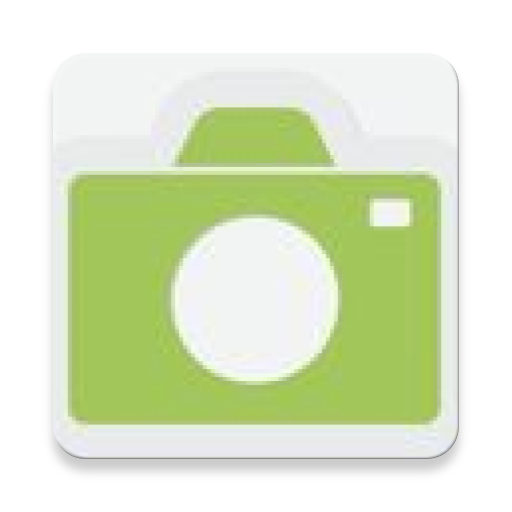
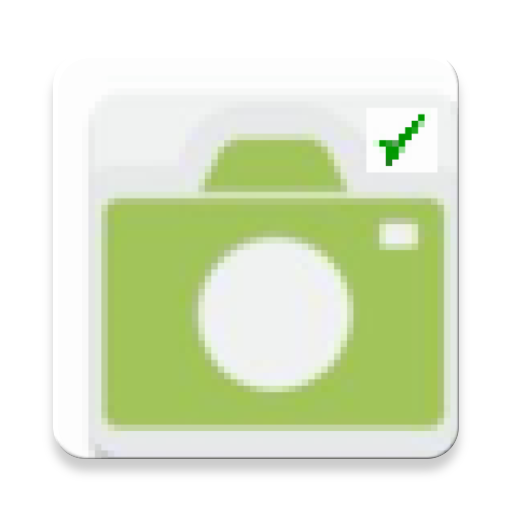
Aggiunto permesso per la fotocamera

Changed region(s): [[0.0938, 0.1875, 0.9062, 0.8438], [0.7812, 0.875, 0.8125, 0.9062], [0.1875, 0.875, 0.2188, 0.9062]]

diff --git a/app/src/main/java/com/example/mathfactory/Profilo_Utente.kt b/app/src/main/java/com/example/mathfactory/Profilo_Utente.kt
@@ -7,6 +7,7 @@ import android.content.Intent
 import android.content.pm.PackageManager
 import android.graphics.Bitmap
 import android.graphics.BitmapFactory
+import android.graphics.drawable.Drawable
 import android.media.MediaPlayer
 import android.net.Uri
 import android.support.v7.app.AppCompatActivity
@@ -30,19 +31,18 @@ import java.text.SimpleDateFormat
 import java.util.*
 
 class Profilo_Utente : AppCompatActivity(), NavigationView.OnNavigationItemSelectedListener {
-    val PERMISSION_REQUEST_CODE = 0
-    private var CurrentPhotoPath: String? = null
+    val PERMISSION_REQUEST_CODE= 101
+    val CAMERA_REQUEST_CODE=0
     private var mediaplayer: MediaPlayer? = null
     override fun onCreate(savedInstanceState: Bundle?) {
         super.onCreate(savedInstanceState)
         setContentView(R.layout.activity_profilo__utente)
         nav_view_PU.setNavigationItemSelectedListener(this)
-        button26.setOnClickListener {
-            val callCameraIntent = Intent(MediaStore.ACTION_IMAGE_CAPTURE)
-            if (callCameraIntent.resolveActivity(packageManager) != null) {
-                startActivityForResult(callCameraIntent, PERMISSION_REQUEST_CODE)
-            }
-        }
+        if(checkPermission())
+            button26.setBackgroundResource(R.mipmap.imm13)
+        else
+            button26.setBackgroundResource(R.mipmap.imm15)
+        button26.setOnClickListener{if(checkPermission()){ button26.setBackgroundResource(R.mipmap.imm13);go_to_camera()}else requestPermission()}
     }
 
     override fun onCreateOptionsMenu(menu: Menu): Boolean {
@@ -57,7 +57,7 @@ class Profilo_Utente : AppCompatActivity(), NavigationView.OnNavigationItemSelec
             return true
         }
         if (id == R.id.action_two) {
-            Toast.makeText(this, "Hi, I'm your own\ncalculator!", Toast.LENGTH_LONG).show()
+            Toast.makeText(this, "Hi, here is your profile!", Toast.LENGTH_LONG).show()
             return true
         }
         if (id == R.id.action_three) {
@@ -146,13 +146,40 @@ class Profilo_Utente : AppCompatActivity(), NavigationView.OnNavigationItemSelec
         super.onActivityResult(requestCode, resultCode, data)
        when(requestCode)
        {
-           PERMISSION_REQUEST_CODE->{
+           CAMERA_REQUEST_CODE->{
                if(resultCode==Activity.RESULT_OK&&data!=null)
                {
                    imageView.setImageBitmap(data.extras.get("data") as Bitmap)
+                   Toast.makeText(this, "The photo has been\nsuccessfully uploaded!", Toast.LENGTH_LONG).show()
+                   mediaplayer = MediaPlayer.create(this, R.raw.return_graph_sound)
+                   mediaplayer?.start()
                }
            }
-           else->Toast.makeText(this,"Request not supported",Toast.LENGTH_LONG).show()
+           else->{
+                   Toast.makeText(this,"Ops... Something is gone wrong!",Toast.LENGTH_LONG).show()
+                   mediaplayer = MediaPlayer.create(this, R.raw.error_sound)
+                   mediaplayer?.start()
+                 }
        }
+    }
+    private fun checkPermission():Boolean
+    {
+        val permesso=ContextCompat.checkSelfPermission(this,android.Manifest.permission.CAMERA)==PackageManager.PERMISSION_GRANTED
+        return permesso
+    }
+    private fun requestPermission()
+    {
+        ActivityCompat.requestPermissions(this, arrayOf(CAMERA),PERMISSION_REQUEST_CODE)
+    }
+    private fun go_to_camera()
+    {
+        val callCameraIntent = Intent(MediaStore.ACTION_IMAGE_CAPTURE)
+        if (callCameraIntent.resolveActivity(packageManager) != null)
+        {
+            startActivityForResult(callCameraIntent, CAMERA_REQUEST_CODE)
+            Toast.makeText(this, "The camera has been\nsuccessfully activated!", Toast.LENGTH_LONG).show()
+            mediaplayer = MediaPlayer.create(this, R.raw.move_graph_sound)
+            mediaplayer?.start()
+        }
     }
 }
